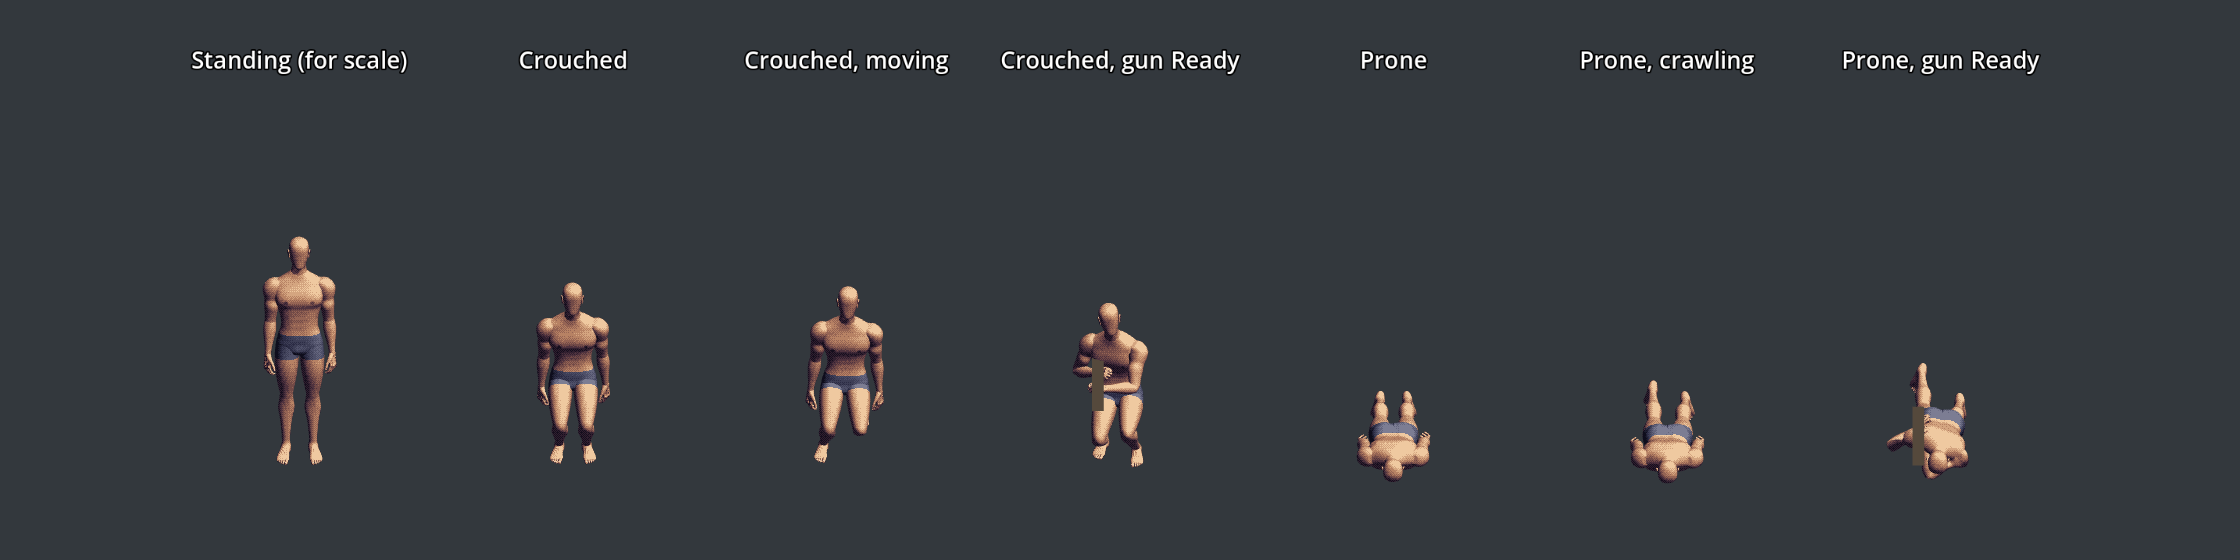
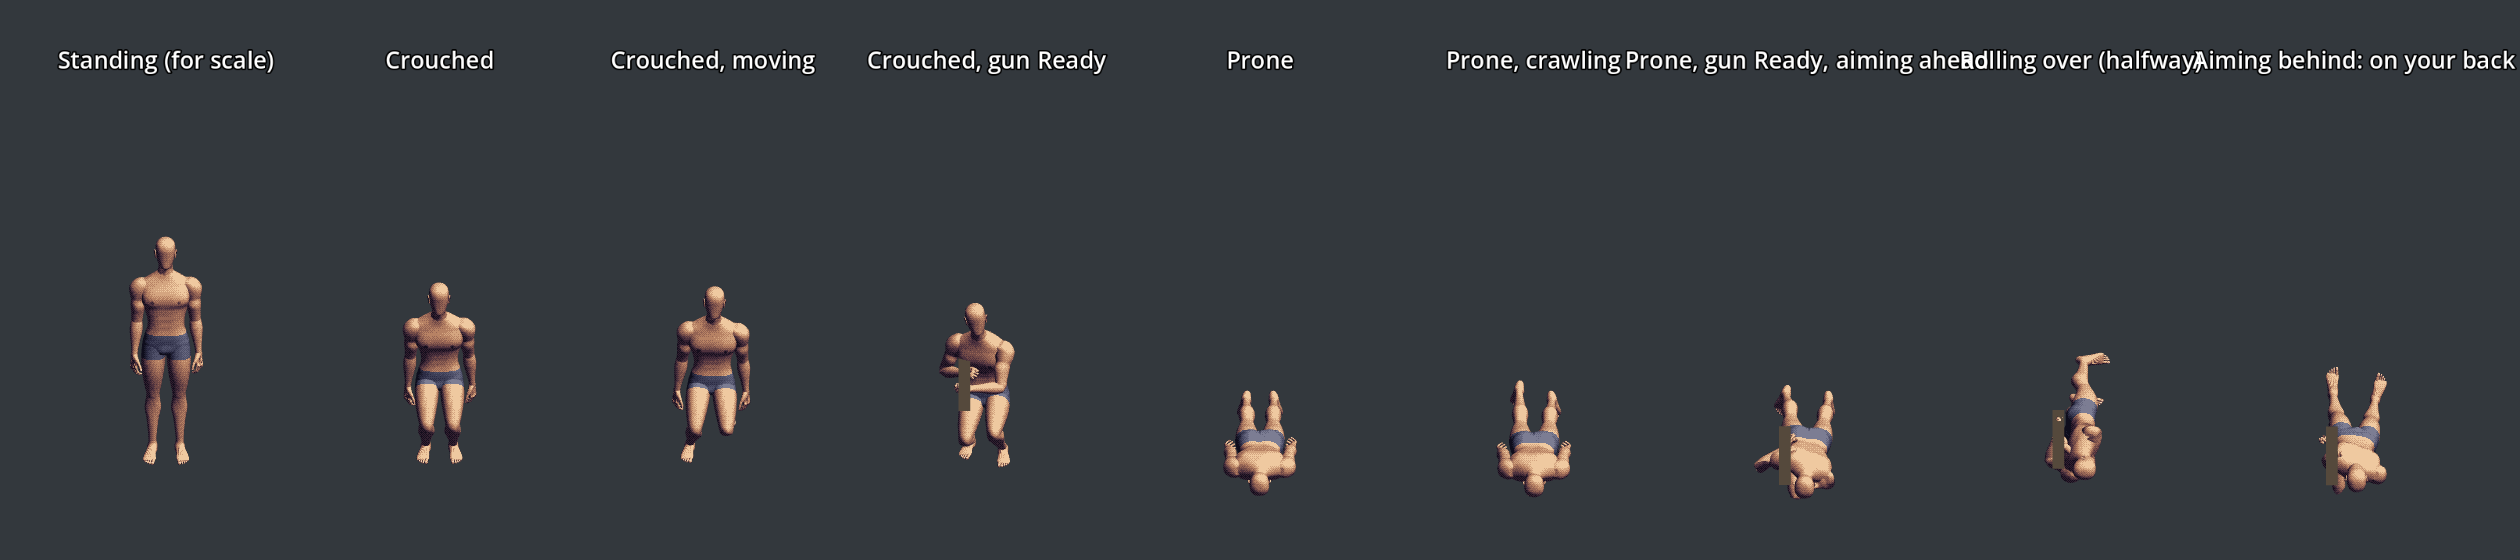
Prone with a gun: on your stomach aiming ahead, onto your back aiming behind; longer reach
Claude-Session: https://claude.ai/code/session_016fBGAUWu2qzw7nE8geQqSy

diff --git a/CLAUDE.md b/CLAUDE.md
@@ -630,8 +630,16 @@ with crouching and going prone.
 - Cloud runs, raider on watch, player standing still: facing you at 12 m, seen in 1.1 s; back turned, never.
   Crouched: not seen at 12 m, seen in 1.7 s at 9 m. Prone: not seen at 9 m, seen in about 1.8 s at 6 m. A raider
   on watch looks about, so walking up behind one is a gamble on when it turns.
+- Prone with a gun (owner, 20 Nov 2026: "we as humans can't really crawl on our backs"). You lie along
+  `prone_dir` (head that way) and crawl on your front with the weapon away. Gun raised, you stay put: aiming
+  ahead of you, you stay on your stomach and shoot; aiming behind you (more than `back_beyond_deg` 110 round
+  from where your head points) you roll onto your back, head where it was, and shoot past your feet; aim within
+  `front_within_deg` 80 again, or lower the gun, and you roll back over. Rolling takes `roll_over_time` 0.5 s
+  and you can't fire during it. Aiming a gun from the ground, the crosshair roams 6 m further
+  (`prone_aim_reach`, 22 m in all).
 - Poses: the crouch reuses the cover squat. Prone is a stand-in: the whole body tipped flat, face down, arms at
-  its sides (`player_body.gd` `_prone_w`); it needs a real crawl. Sheet: `tools/preview/stances.png`
+  its sides, turned over along its length for the back (`player_body.gd` `_prone_w`, `Player.prone_back`); the
+  arms and gun don't point where you aim. It needs a real crawl and real aiming poses. Sheet: `tools/preview/stances.png`
   (`tools/cover_pose_preview.gd` ROW=2).
 - Not built: anything shown to the player about how close a raider is to noticing; quiet take-downs; raiders
   crouching or going prone; light and dark; zombies hearing footsteps; raiders telling each other.
